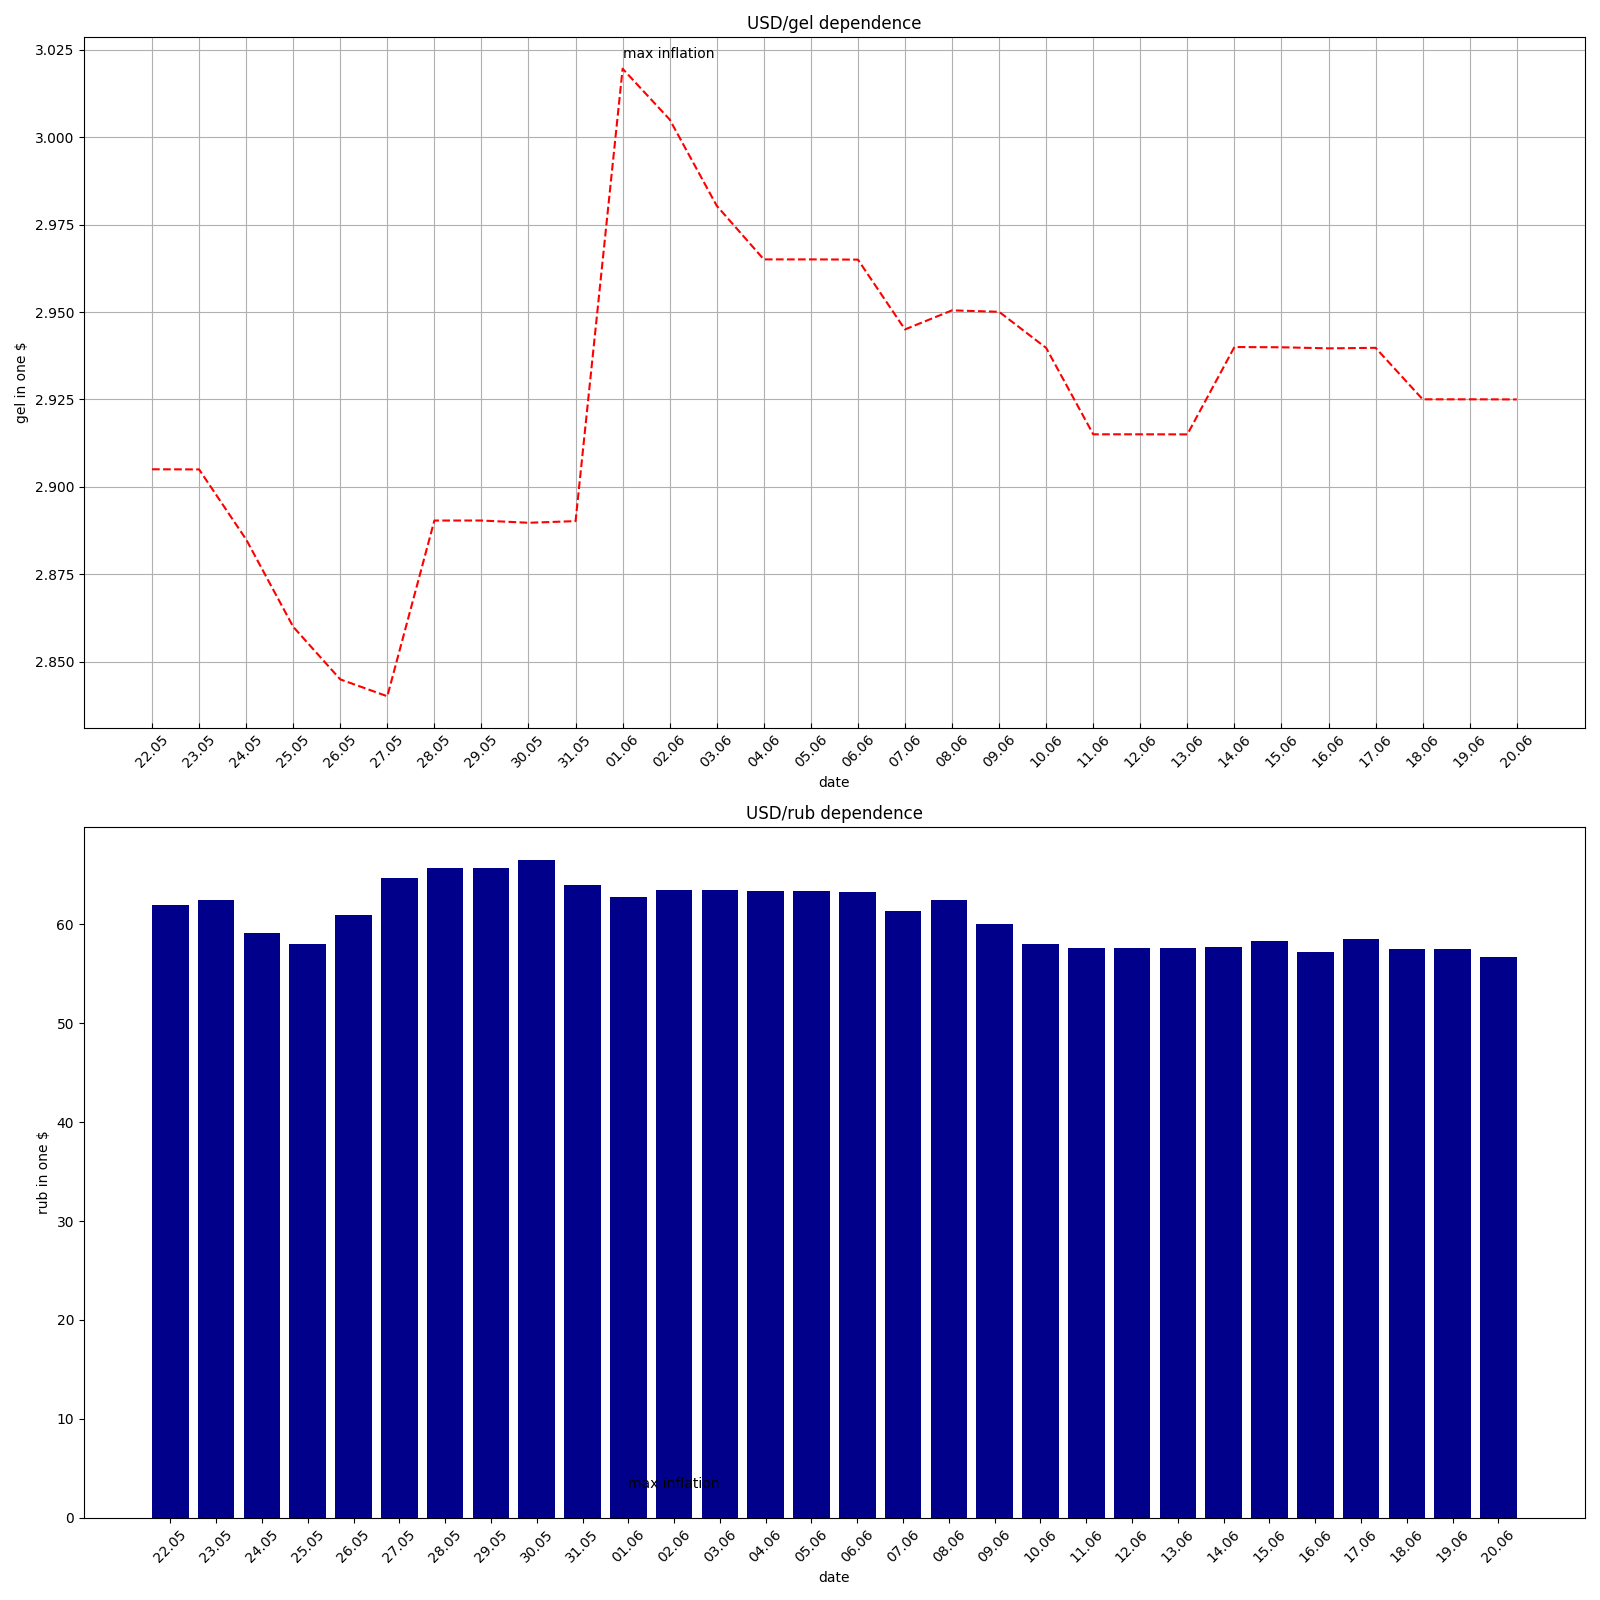
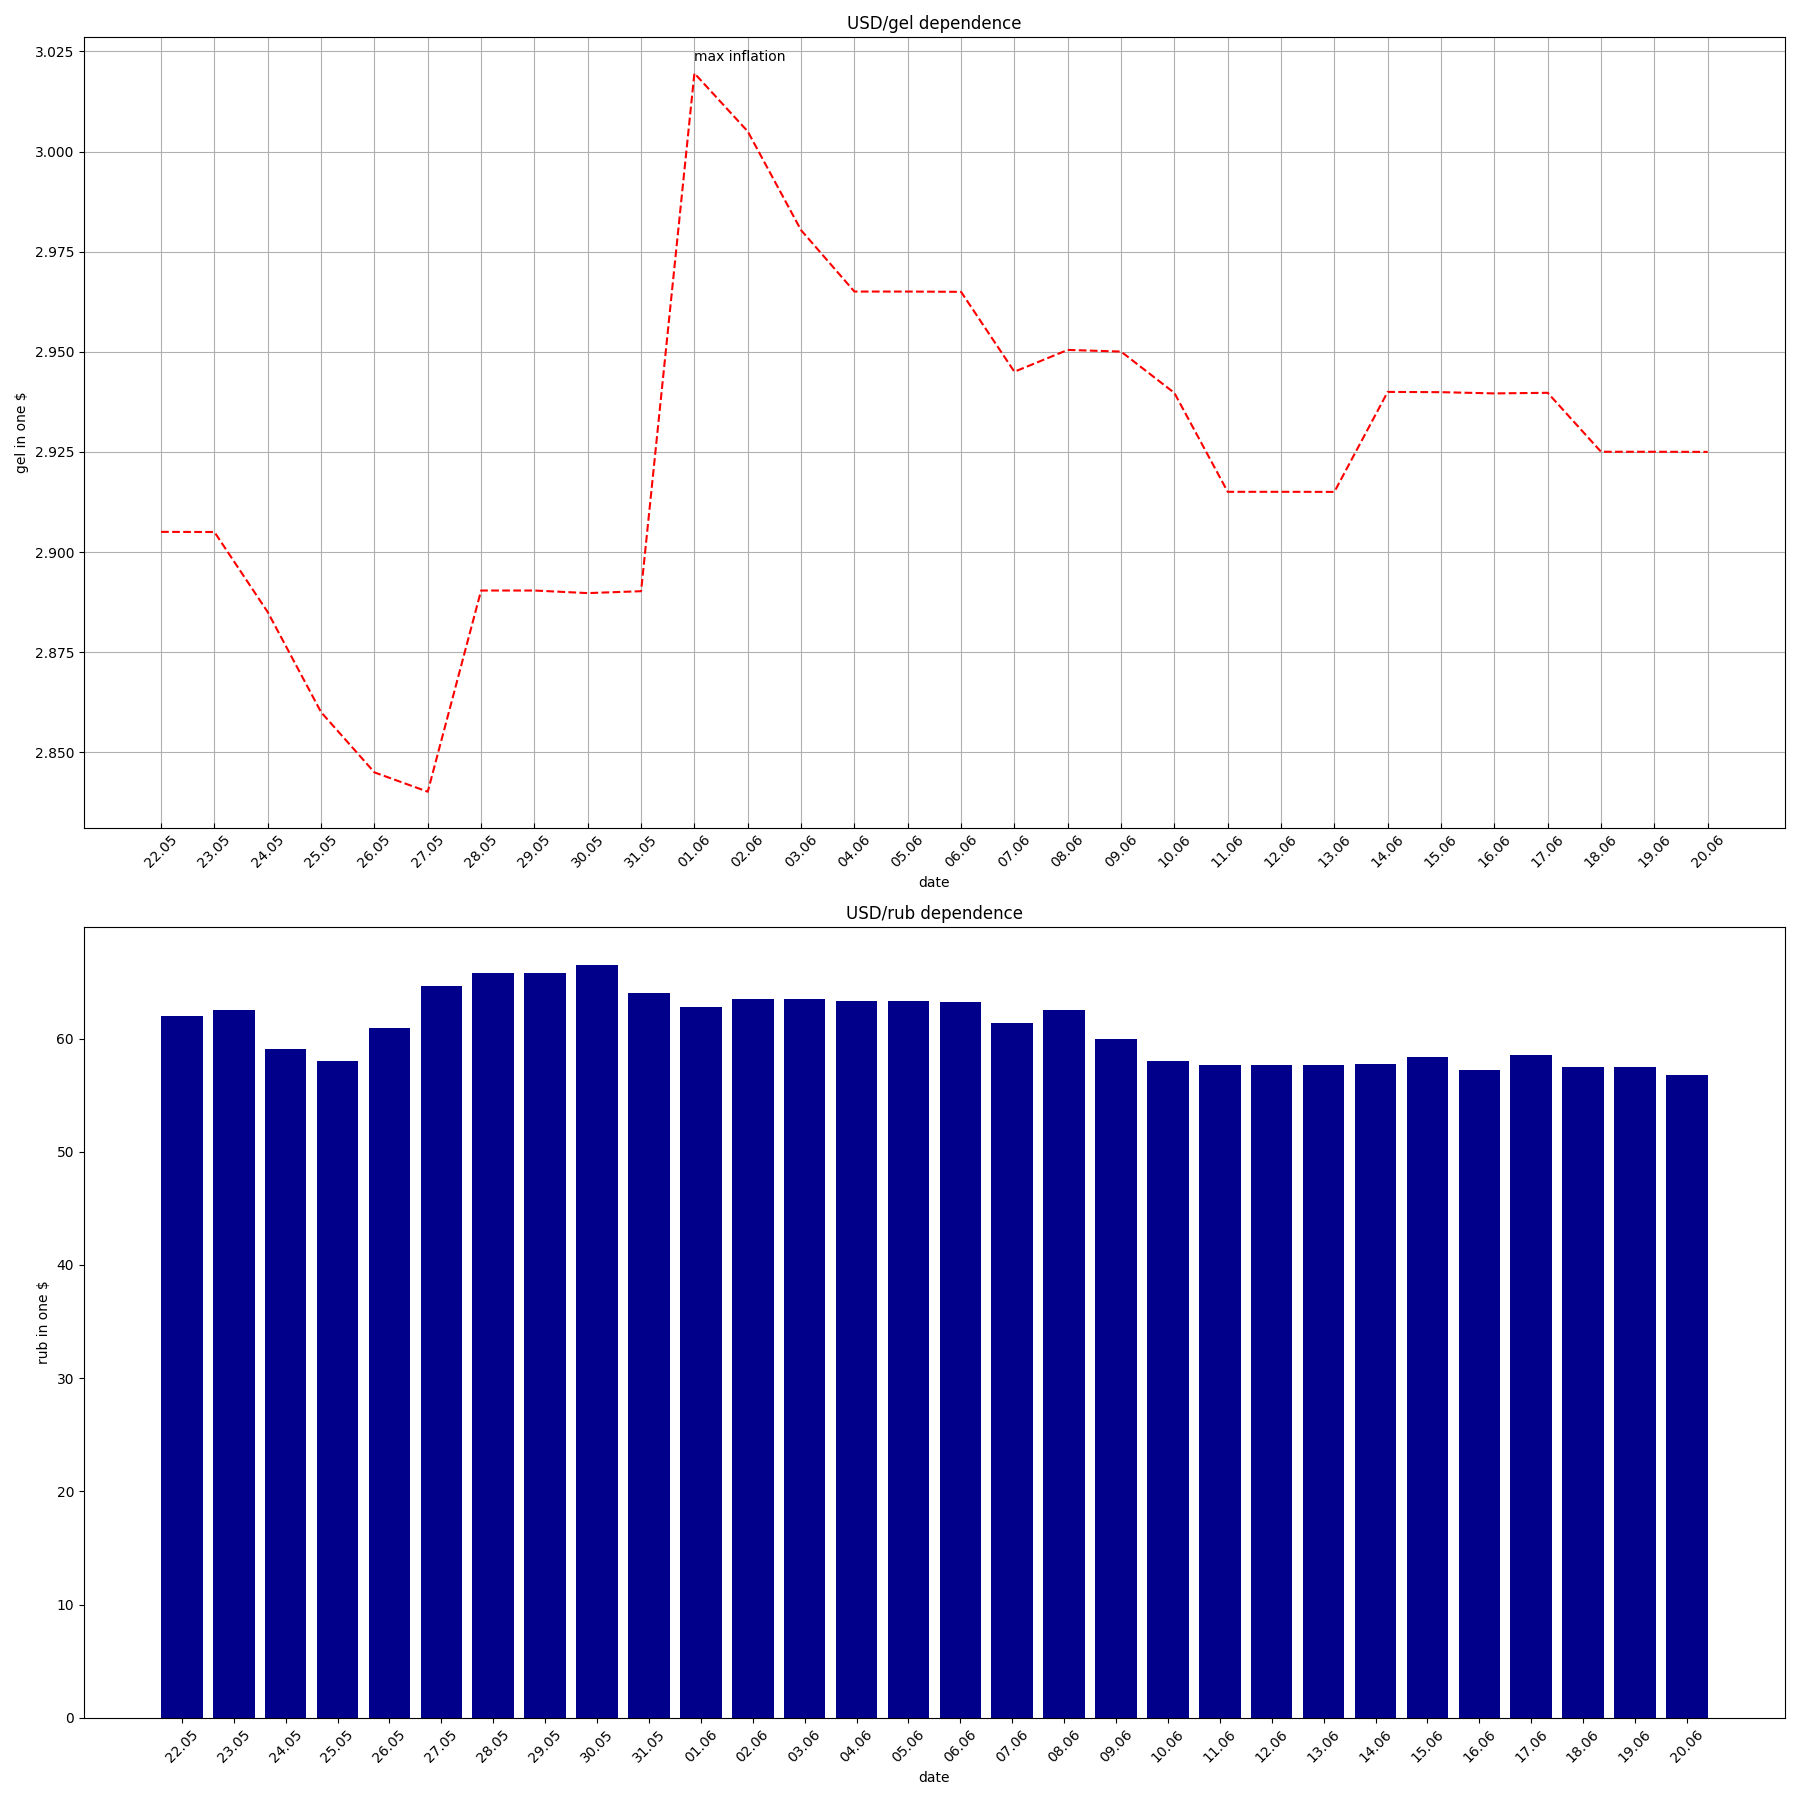
refactor

diff --git a/plots.py b/plots.py
@@ -6,31 +6,31 @@ from currencies import calculate_dependence
 
 def create_graph(currency_1='gel', currency_2='rub'):
     x, y = calculate_dependence(currency_1)
-    fig, ax = plt.subplots(figsize=(16, 16))
+    fig, ax = plt.subplots(figsize=(18, 18))
     x_ticks = np.arange(0, 25, 5)
     ax.set_xticks(x_ticks)
     plt.subplot(2, 1, 1)
     plt.tick_params(axis='x', direction='in')
     plt.grid(True)
     plt.plot(x, y, "r--")
-    create_annotation(x, y, currency_1)
+    create_annotation(currency_1)
+    ymax = max(y)
+    xpos = y.index(ymax)
+    xmax = x[xpos]
+    plt.annotate('max inflation', xy=(xmax, ymax), xytext=(xmax, ymax+.001*ymax))
+
     plt.subplot(2, 1, 2)
     x1, y1 = calculate_dependence(currency_2)
     plt.bar(x1, y1, color='darkblue')
-    create_annotation(x, y, currency_2)
+    create_annotation(currency_2)
     fig.tight_layout()
     plt.savefig('currencies.png')
 
     plt.show()
 
 
-def create_annotation(x, y, currency):
+def create_annotation(currency):
     plt.title(f"USD/{currency} dependence")
     plt.ylabel(f"{currency} in one $")
     plt.xlabel("date")
     plt.xticks(rotation=45)
-    ymax = max(y)
-    xpos = y.index(ymax)
-    xmax = x[xpos]
-    plt.annotate('max inflation', xy=(xmax, ymax), xytext=(xmax, ymax+.001*ymax))
-

diff --git a/pdf_generation.py b/pdf_generation.py
@@ -8,13 +8,13 @@ documentTitle = 'documentTitle'
 title = 'All you need to know about currencies... '
 
 
-def add_image(image_path, textLines):
+def add_image(image_path, text_lines):
     pdf = canvas.Canvas(fileName, pagesize=A4)
     pdf.setTitle(documentTitle)
     pdf.drawCentredString(330, 730, title)
     pdf.line(30, 710, 550, 710)
     text = pdf.beginText(30, 670)
-    for line in textLines:
+    for line in text_lines:
         text.textLine(line)
     pdf.drawText(text)
     pdf.drawImage(image_path, 30, 100, width=500, height=500)
@@ -22,9 +22,9 @@ def add_image(image_path, textLines):
 
 
 def create_pdf(image_path, currency_1, currency_2):
-    textLines = []
+    text_lines = []
     for currency in [currency_1, currency_2]:
         _, money = calculate_dependence(currency)
         mean, maximum, minimum = calculate_values(money)
-        textLines.append(create_text(currency, mean, maximum, minimum))
-    add_image(image_path, textLines)
+        text_lines.append(create_text(currency, mean, maximum, minimum))
+    add_image(image_path, text_lines)

diff --git a/currencies.py b/currencies.py
@@ -3,7 +3,6 @@ from datetime import date, timedelta
 
 import requests
 
-
 BASE_LINK = "https://cdn.jsdelivr.net/gh/fawazahmed0/currency-api@1/"
 
 
@@ -27,8 +26,8 @@ def calculate_values(money):
 
 
 def create_text(currency, mean, maximum, minimum):
-    the_text = f'Comparison of currencies $/{currency}: '\
-               f'min  = {minimum}, '\
-               f'max = {maximum}, '\
-               f'mean (average) = {mean} '
+    the_text = f'Comparison of currencies $/{currency}: ' \
+               f'min  = {minimum}, ' \
+               f'max = {maximum}, ' \
+               f'mean = {mean} '
     return the_text
